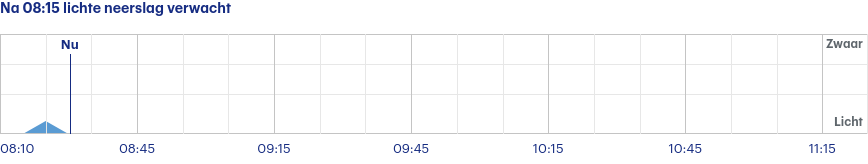
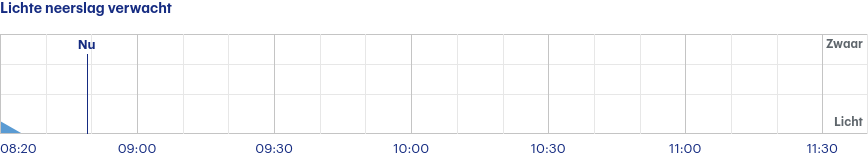
Latest scraping buienradar: Sat Aug 19 06:40:30 UTC 2023

diff --git a/scrapes/buienradar/buienradar-jette-3-uur.md b/scrapes/buienradar/buienradar-jette-3-uur.md
@@ -1,4 +1,4 @@
-Na 08:15 lichte neerslag verwacht
+Lichte neerslag verwacht
 
 ![](buienradar-jette-3-uur.png)
 
